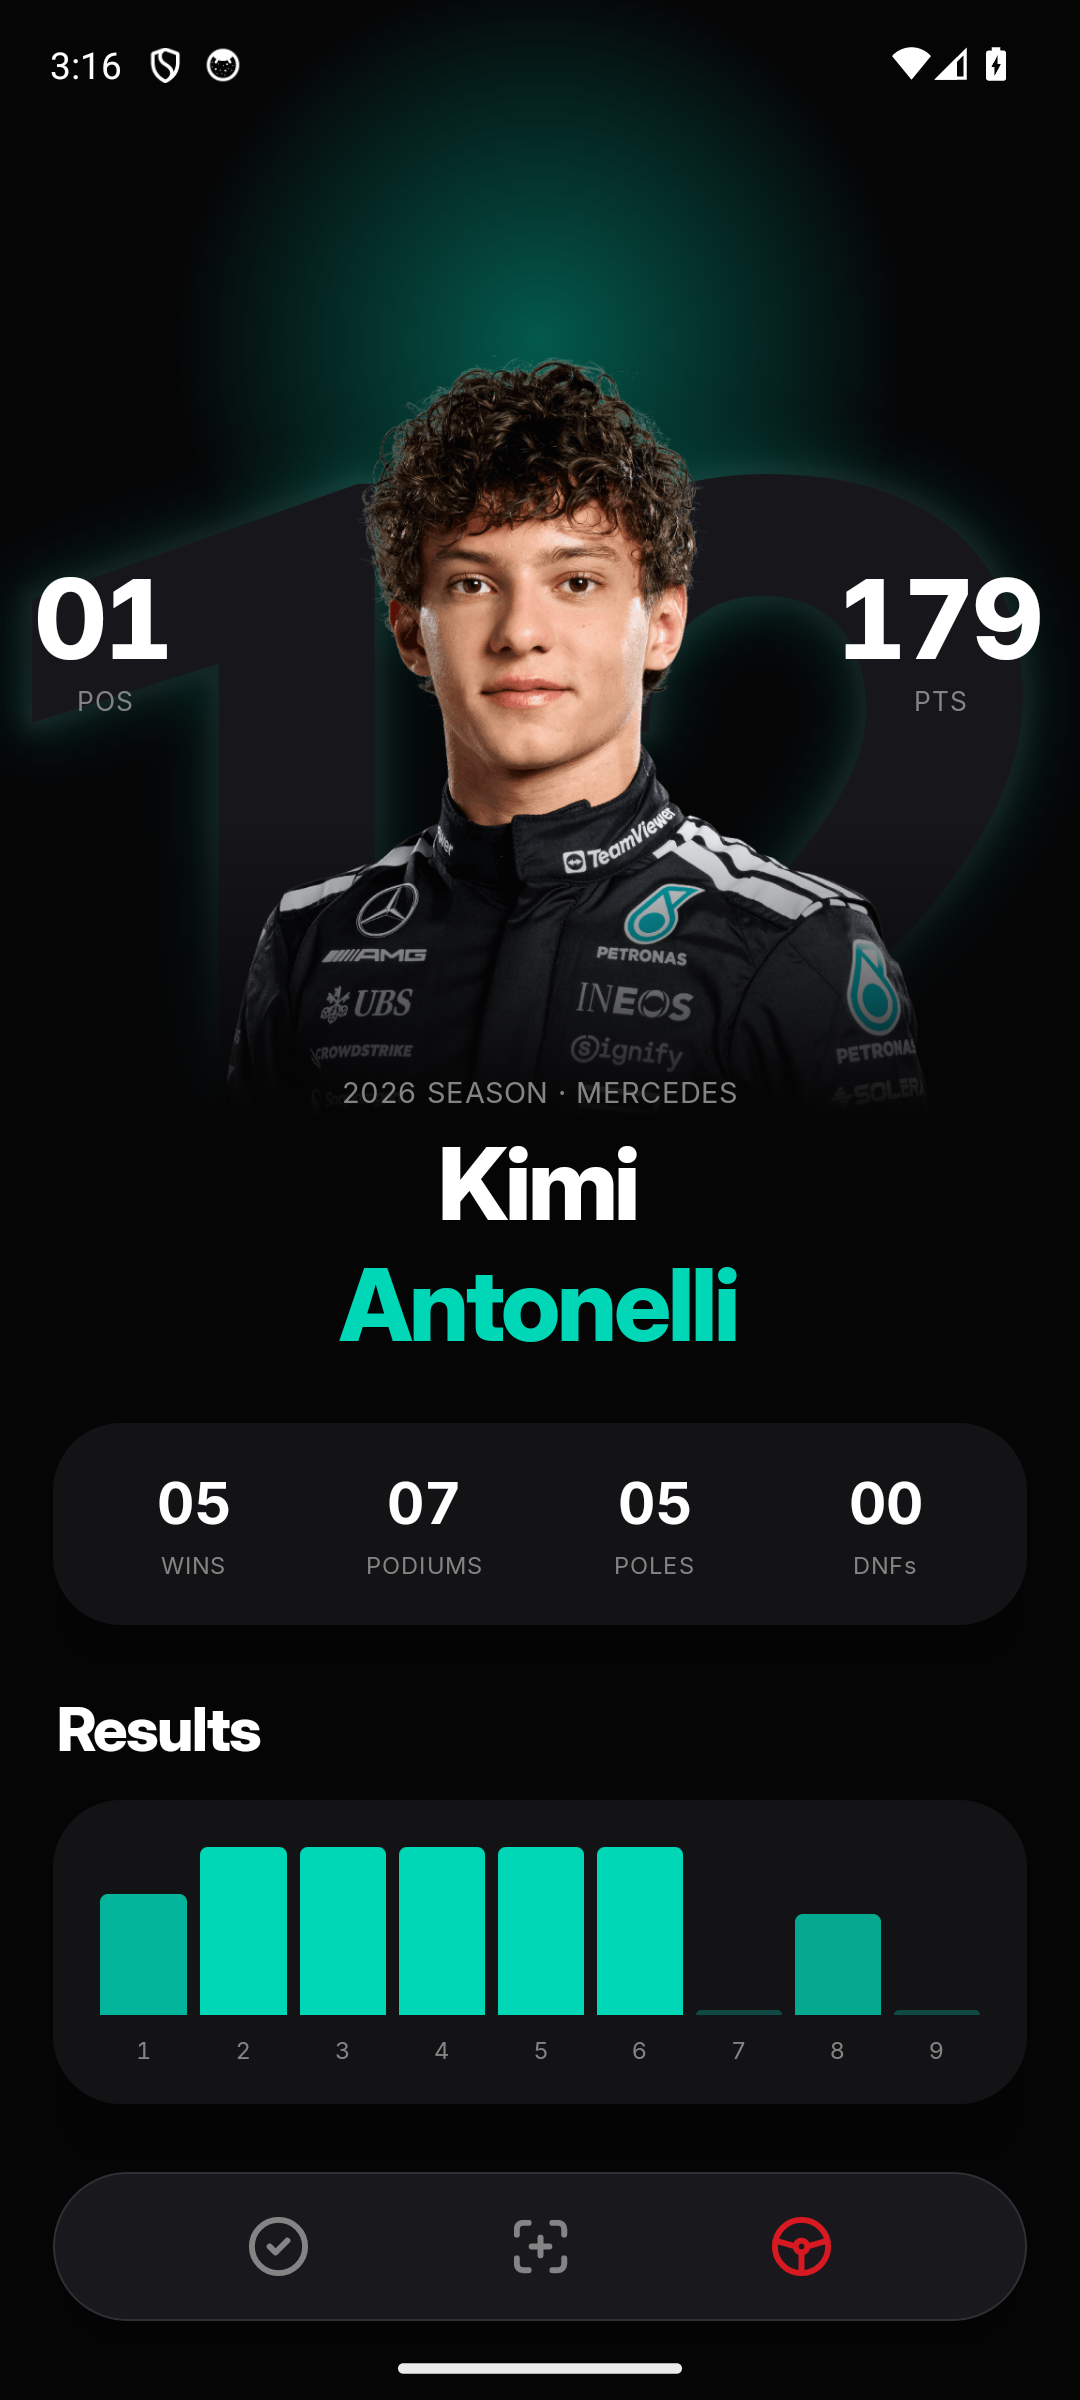
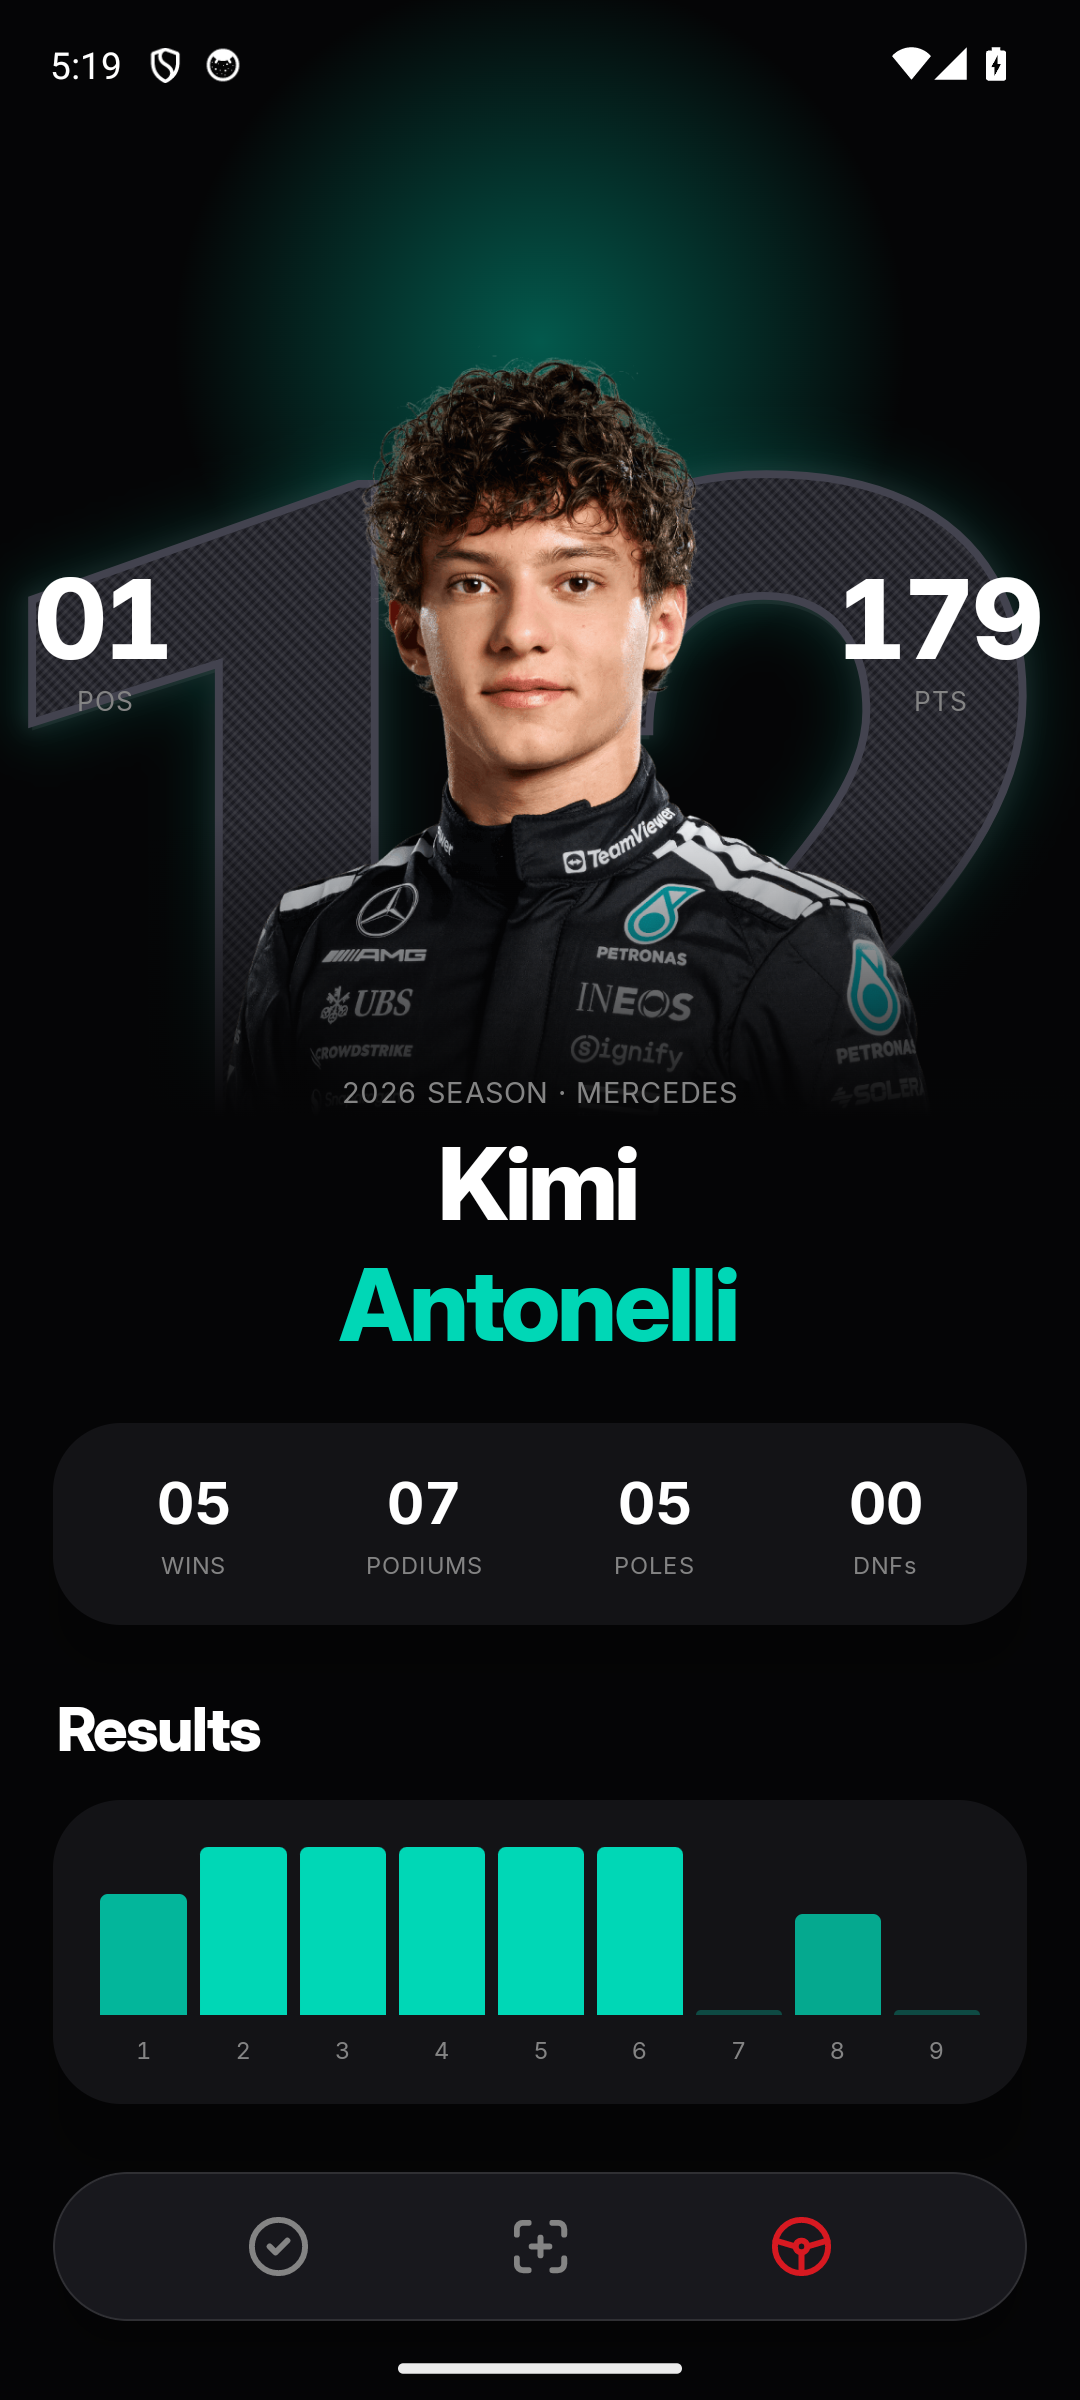
v1.1.2 — restore carbon-fibre / engrave / stroke on the hero number
Last release flattened the background number to a solid fill; this restores the
full effect stack (engrave -> team glow -> carbon-fibre twill fill -> stroke) in
both light and dark, keeping the width-scaling, tracking, low center, name-fade
and opaque-photo occlusion from 1.1.1.

versionCode 4 / versionName 1.1.2

diff --git a/app/src/main/java/dev/anpo/f1/ui/Components.kt b/app/src/main/java/dev/anpo/f1/ui/Components.kt
@@ -224,8 +224,13 @@ fun CarbonNumber(number: String, glowColour: Color, modifier: Modifier = Modifie
         glyph.offset(size.width / 2f - b.centerX(), size.height * centerFraction - b.centerY())
         val path = glyph.asComposePath()
 
-        // Team glow behind: a blurred stroke of the glyph outline - wide colour, tight
-        // neutral - so the halo wraps the digits' contour (drop-shadow on the alpha).
+        // 1. Engrave, under everything: same glyph +3dp Y, a hairline of light. The sliver
+        //    peeking below each lower edge reads as light catching a recessed lip.
+        val lip = android.graphics.Path(glyph).apply { offset(0f, 3.dp.toPx()) }
+        drawPath(lip.asComposePath(), color = p.engrave)
+
+        // 2. Team glow behind: a blurred stroke of the glyph outline - wide colour, tight
+        //    neutral - so the halo wraps the digits' contour (drop-shadow on the alpha).
         drawIntoCanvas { canvas ->
             val gp = Paint().asFrameworkPaint().apply {
                 isAntiAlias = true
@@ -240,8 +245,26 @@ fun CarbonNumber(number: String, glowColour: Color, modifier: Modifier = Modifie
             canvas.nativeCanvas.drawPath(glyph, gp)
         }
 
-        // Solid filled glyph, dark carbon - no hollow stroke, no twill. The team glow
-        // behind is what reads; the fill is barely above canvas so it sits back.
-        drawPath(path, color = if (p.isDark) Color(0xFF17171B) else Color(0xFFE6E6E2))
+        // 3. Carbon-fibre fill, clipped to the glyph (port of f1-tab-complete.html .cbD/.cbL):
+        //    dominant 45deg #23232B/#14141A rib + a faint 45deg sheen + a 135deg cross-fibre.
+        clipPath(path) {
+            val h = size.height
+            val period = 6.dp.toPx()   // rib period
+            val fine = 3.dp.toPx()     // sheen / cross period
+            val base = if (p.isDark) Color(0xFF14141A) else Color(0xFFE9E9E5)
+            val rib = if (p.isDark) Color(0xFF23232B) else Color(0xFFDBDBD5)
+            val sheen = if (p.isDark) Color(0x09FFFFFF) else Color(0x07000000)
+            val cross = if (p.isDark) Color(0x12FFFFFF) else Color(0x0E000000)
+            drawRect(base)
+            var i = -h
+            while (i < size.width + h) { drawLine(rib, Offset(i, 0f), Offset(i + h, h), strokeWidth = fine); i += period }
+            var s = -h
+            while (s < size.width + h) { drawLine(sheen, Offset(s, 0f), Offset(s + h, h), strokeWidth = 1.dp.toPx()); s += fine }
+            var j = -h
+            while (j < size.width + h) { drawLine(cross, Offset(j + h, 0f), Offset(j, h), strokeWidth = 1.dp.toPx()); j += fine }
+        }
+
+        // 4. Stroke rides the same path - the lit border that lifts it off the canvas.
+        drawPath(path, color = p.numStroke, style = Stroke(width = 3.dp.toPx()))
     }
 }
